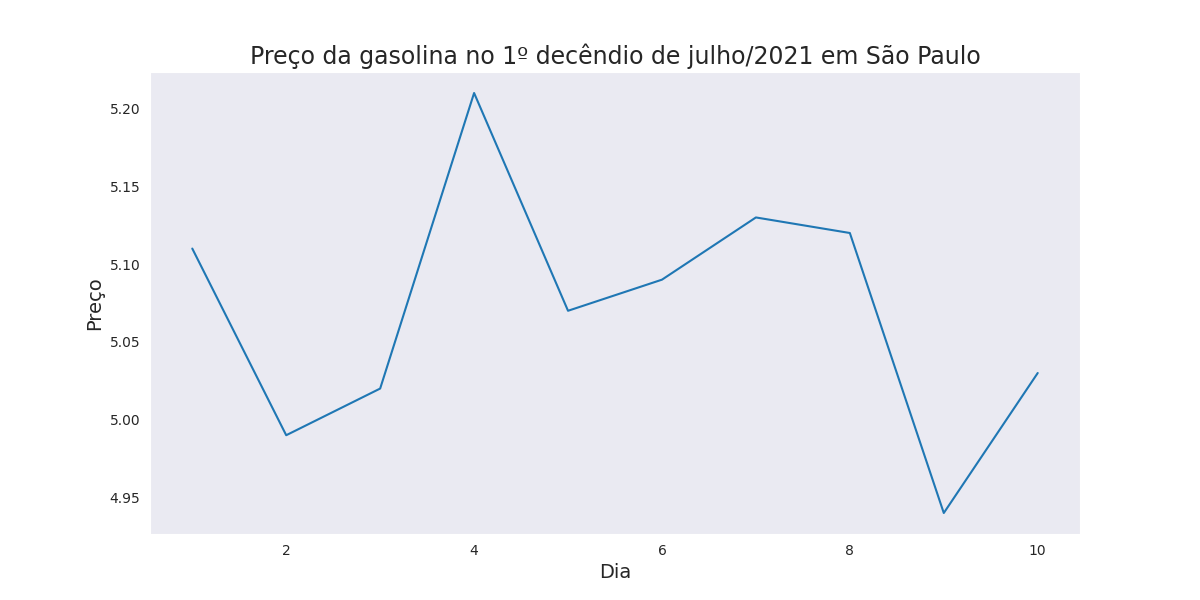
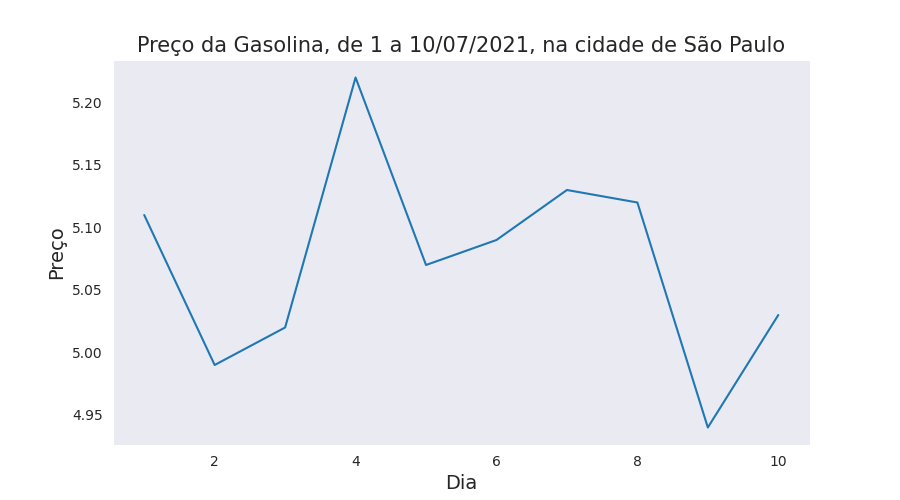
proj. EBAC-Analista de Dados-exercicio 20 - gasolina.csv dataset para elaboracao de grafico - alteracao no valor do dia 07/07

diff --git a/price_gas.py b/price_gas.py
@@ -7,13 +7,14 @@ import pandas as pd
 price_gas = pd.read_csv('gasolina.csv', sep=',') 
 price_gas.head()
 
+
 #Visualização gráfica dos dados e salvando imagem em png
 with sns.axes_style('darkgrid'):
-  plt.figure(figsize=(12, 6)) # Altere a largura e a altura para ajustar o tamanho do gráfico
+  plt.figure(figsize=(9, 5)) # Altere a largura e a altura para ajustar o tamanho do gráfico
   grafico_price_gas = sns.lineplot(data=price_gas, x='dia', y='venda', palette='pastel')
-  grafico_price_gas.set(title='Preço da Gasolina na cidade de São Paulo no 1º decênio de julho/2021', xlabel='dia', ylabel='preço')
+  grafico_price_gas.set(title='Preço da Gasolina, de 1 a 10/07/2021, na cidade de São Paulo', xlabel='dia', ylabel='preço')
   grafico_price_gas.grid(False) #retirando o grid visando deixar melhor a visualização
-  grafico_price_gas.set_title('Preço da gasolina no 1º decêndio de julho/2021 em São Paulo', fontsize=17)
+  grafico_price_gas.set_title('Preço da Gasolina, de 1 a 10/07/2021, na cidade de São Paulo', fontsize=15)
   grafico_price_gas.set_xlabel('Dia', fontsize=14) 
   grafico_price_gas.set_ylabel('Preço', fontsize=14)
   plt.savefig('grafico_gasolina.png')
